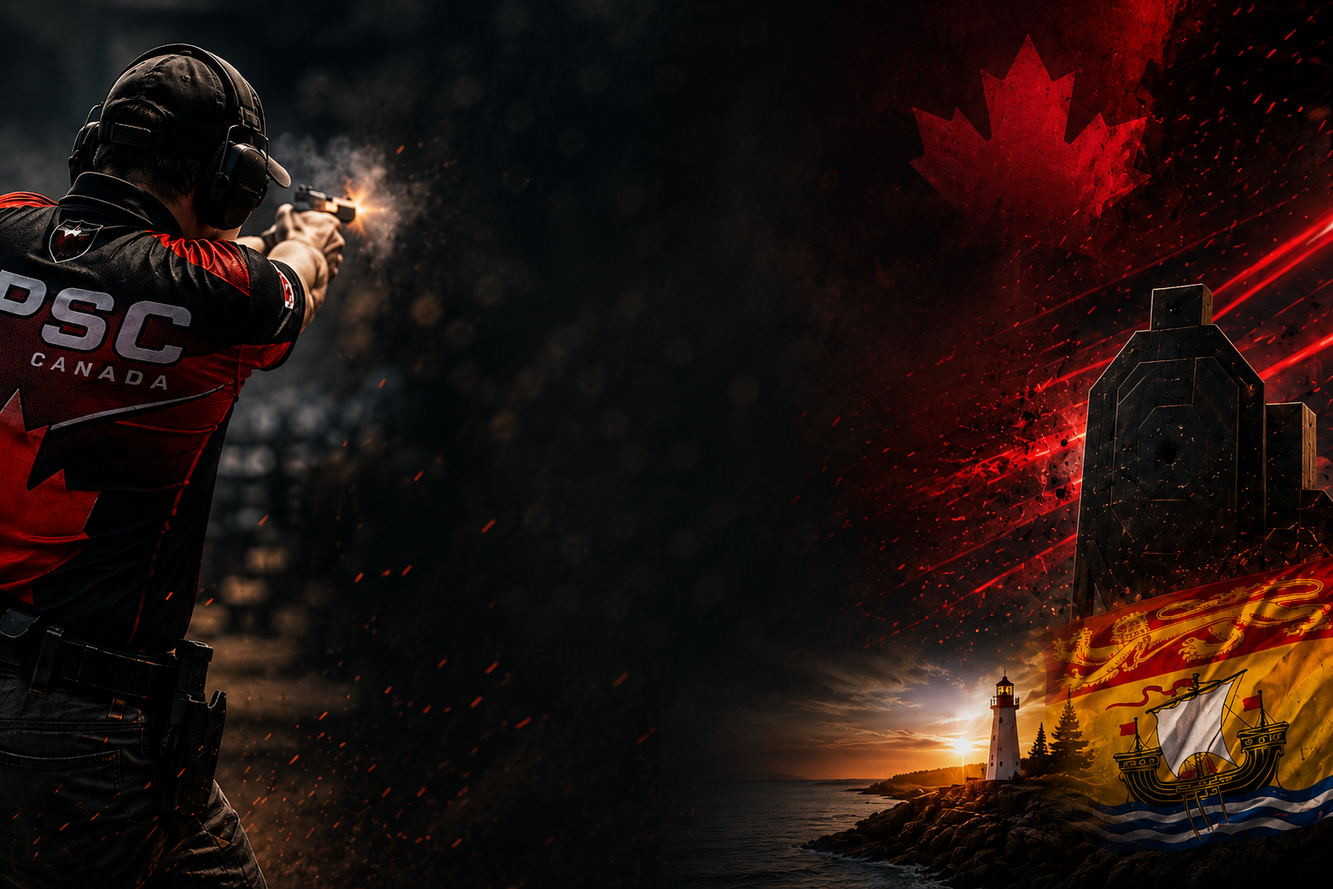
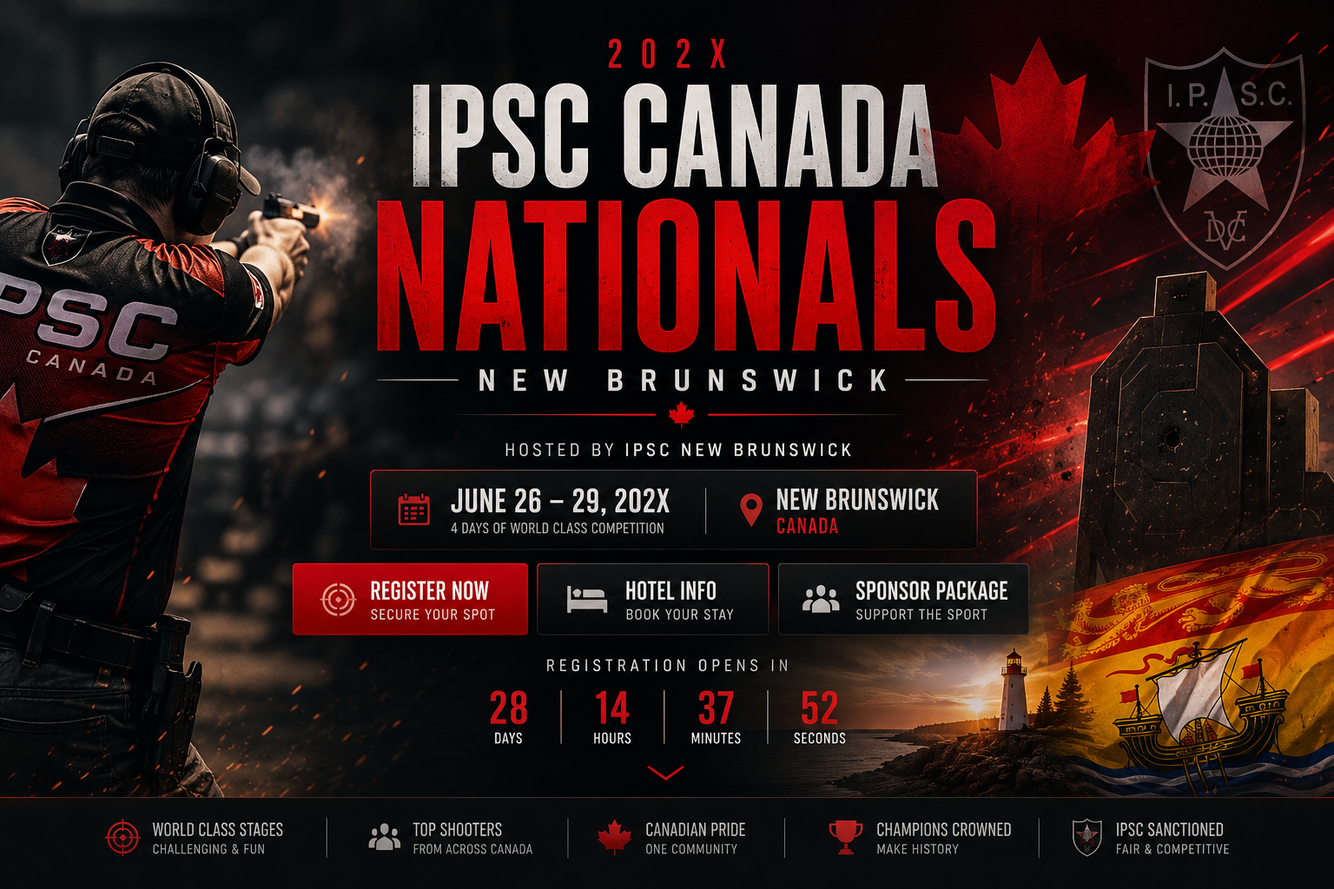
Add files via upload

diff --git a/index.html b/index.html
@@ -1,190 +1,157 @@
-<!doctype html>
+<!DOCTYPE html>
+
 <html lang="en">
 <head>
-  <meta charset="utf-8" />
-  <meta name="viewport" content="width=device-width, initial-scale=1" />
-  <title>IPSC Canada Nationals | New Brunswick</title>
-  <meta name="description" content="IPSC Canada Nationals hosted in New Brunswick. Match info, dates, travel, registration, sponsors, and updates." />
-  <link rel="preconnect" href="https://fonts.googleapis.com">
-  <link rel="preconnect" href="https://fonts.gstatic.com" crossorigin>
-  <link href="https://fonts.googleapis.com/css2?family=Barlow+Condensed:wght@500;600;700;800&family=Inter:wght@400;500;600;700;800&display=swap" rel="stylesheet">
-  <link rel="stylesheet" href="styles.css" />
-</head>
+<meta charset="utf-8"/>
+<meta content="width=device-width, initial-scale=1" name="viewport"/>
+<title>2027 IPSC Canada Nationals | Balmoral, New Brunswick</title>
+<meta content="2027 IPSC Canada Nationals, July 26–August 1, at Restigouche County Sports &amp; Gun Club, Balmoral Sud, New Brunswick." name="description"/>
+<link href="https://fonts.googleapis.com" rel="preconnect"/>
+<link crossorigin="" href="https://fonts.gstatic.com" rel="preconnect"/>
+<link href="https://fonts.googleapis.com/css2?family=Barlow+Condensed:wght@500;600;700;800&amp;family=Inter:wght@400;500;600;700;800&amp;display=swap" rel="stylesheet"/>
+<link href="styles.css" rel="stylesheet">
+</link></head>
 <body>
-  <header class="site-header" id="top">
-    <a class="brand" href="#top"><span class="brand-mark">NB</span><span>IPSC Nationals</span></a>
-    <button class="menu-btn" aria-label="Open navigation">Menu</button>
-    <nav class="nav">
-      <a href="#match">Match Info</a>
-      <a href="#dates">Dates</a>
-      <a href="#location">Location</a>
-      <a href="#accommodations">Hotels</a>
-      <a href="#sponsors">Sponsors</a>
-      <a class="nav-cta" href="#register">Register</a>
-    </nav>
-  </header>
+<header class="site-header" id="top">
+<a class="brand" href="#top"><span class="brand-mark">NB</span><span>IPSC Nationals</span></a>
+<button aria-label="Open navigation" class="menu-btn">Menu</button>
+<nav class="nav">
+<a href="#match">Match Info</a>
+<a href="#dates">Dates</a>
+<a href="#location">Location</a>
+<a href="#accommodations">Hotels</a>
+<a href="#sponsors">Sponsors</a>
+<a class="nav-cta" href="#register">Register</a>
+</nav>
+</header>
+<main>
+<section class="hero">
+<div aria-hidden="true" class="hero-bg"></div>
+<div aria-hidden="true" class="smoke smoke-a"></div>
+<div aria-hidden="true" class="smoke smoke-b"></div>
+<div class="hero-content reveal">
+<p class="eyebrow">Hosted by IPSC New Brunswick</p>
+<h1><span>IPSC Canada</span> Nationals</h1>
+<p class="hero-subtitle">Balmoral Sud, New Brunswick · July 26 – August 1, 2027</p>
+<div class="hero-card">
+<div>
+<span class="label">Dates</span>
+<strong>July 26 – August 1, 2027</strong>
+</div>
+<div>
+<span class="label">Match</span>
+<strong>18 Stages · Planned</strong>
+</div>
+<div>
+<span class="label">Registration</span>
+<strong>Details Coming Soon</strong>
+</div>
+</div>
+<div class="hero-actions">
+<a class="btn primary" href="#register">Registration Info</a>
+<a class="btn" href="#accommodations">Hotel Info</a>
+<a class="btn" href="#sponsors">Sponsor Package</a>
+</div>
 
-  <main>
-    <section class="hero">
-      <div class="hero-bg" aria-hidden="true"></div>
-      <div class="smoke smoke-a" aria-hidden="true"></div>
-      <div class="smoke smoke-b" aria-hidden="true"></div>
-      <div class="hero-content reveal">
-        <p class="eyebrow">Hosted by IPSC New Brunswick</p>
-        <h1><span>IPSC Canada</span> Nationals</h1>
-        <p class="hero-subtitle">New Brunswick, Canada</p>
-        <div class="hero-card">
-          <div>
-            <span class="label">Dates</span>
-            <strong>June 26–29, 202X</strong>
-          </div>
-          <div>
-            <span class="label">Match</span>
-            <strong>18 Stages + Chrono</strong>
-          </div>
-          <div>
-            <span class="label">Registration</span>
-            <strong>Opening Soon</strong>
-          </div>
-        </div>
-        <div class="hero-actions">
-          <a class="btn primary" href="#register">Register Now</a>
-          <a class="btn" href="#accommodations">Hotel Info</a>
-          <a class="btn" href="#sponsors">Sponsor Package</a>
-        </div>
-        <div class="countdown" data-target="2026-07-27T08:00:00-03:00">
-          <span>Registration opens in</span>
-          <div class="count-grid">
-            <div><strong id="days">--</strong><small>Days</small></div>
-            <div><strong id="hours">--</strong><small>Hours</small></div>
-            <div><strong id="minutes">--</strong><small>Minutes</small></div>
-            <div><strong id="seconds">--</strong><small>Seconds</small></div>
-          </div>
-        </div>
-      </div>
-    </section>
+</div>
+</section>
+<section class="strip">
+<div><strong>World Class Stages</strong><span>Challenging &amp; fair</span></div>
+<div><strong>Top Shooters</strong><span>From across Canada</span></div>
+<div><strong>Canadian Pride</strong><span>One community</span></div>
+<div><strong>Champions Crowned</strong><span>Make history</span></div>
+<div><strong>IPSC Sanctioned</strong><span>Safe &amp; competitive</span></div>
+</section>
+<section class="section grid-two" id="match">
+<div class="reveal">
+<p class="eyebrow">Match Info</p>
+<h2>Everything shooters need in one place.</h2>
+<p>Join competitors from across Canada in northern New Brunswick. Final match procedures, round count, check-in and officials information will be published as they are confirmed.</p>
+</div>
+<div class="panel reveal">
+<ul class="info-list">
+<li><span>Match Director</span><strong>To Be Announced</strong></li>
+<li><span>Stages</span><strong>18 Planned</strong></li>
+<li><span>Host</span><strong>IPSC New Brunswick</strong></li>
+<li><span>Location</span><strong>Restigouche County Sports &amp; Gun Club</strong></li>
+</ul>
+</div>
+</section>
+<section class="section dark" id="register">
+<div class="section-head reveal">
+<p class="eyebrow">Registration</p>
+<h2>Registration information</h2>
+<p>Registration is not open yet. The registration link, fees, eligibility and squad details will be posted here when confirmed.</p>
+</div>
+<div class="cards three">
+<article class="card reveal"><h3>Competitors</h3><p>Registration link, match fee, cancellation policy, and squad selection.</p></article>
+<article class="card reveal"><h3>Officials</h3><p>Prematch schedule, staff package, RO details, and lodging notes.</p></article>
+<article class="card reveal"><h3>International</h3><p>Invitation letter and contact instructions for international competitors.</p></article>
+</div>
+</section>
+<section class="section" id="dates">
+<div class="section-head reveal">
+<p class="eyebrow">Dates</p>
+<h2>Event schedule</h2>
+</div>
+<div class="timeline reveal"><div><time>Mon, Jul 26</time><strong>Event Week Begins</strong><span>Arrival, preparation and event activities — details pending</span></div><div><time>Tue–Sat, Jul 27–31</time><strong>Competition Week</strong><span>Daily shooting schedule and squad assignments to be confirmed</span></div><div><time>Sun, Aug 1</time><strong>Awards Banquet</strong><span>Planned awards banquet; venue and timing to be confirmed</span></div></div>
+</section>
+<section class="section grid-two dark" id="location">
+<div class="reveal">
+<p class="eyebrow">Location</p>
+<h2>Restigouche County Sports &amp; Gun Club</h2>
+<p>Restigouche County Sports &amp; Gun Club Association Inc. · 1237 Drapeau Road, Balmoral Sud, New Brunswick, Canada.</p>
+</div>
+<div class="map-card reveal"><a href="https://www.google.com/maps/search/?api=1&amp;query=1237+Drapeau+Road+Balmoral+Sud+NB+Canada" rel="noopener noreferrer" target="_blank">Open range directions in Google Maps ↗</a></div>
+</section>
+<section class="section" id="accommodations">
+<div class="section-head reveal">
+<p class="eyebrow">Travel</p>
+<h2>Hotels, camping &amp; banquet</h2>
+<p>Dalhousie and Campbellton are the main areas to consider. The hotels below are suggestions, not official partners; no room blocks or rates have been confirmed.</p>
+</div>
+<div class="cards three">
+<article class="card reveal"><h3>Dalhousie</h3><p>Days Inn by Wyndham Dalhousie. Also consider smaller local accommodations. Group rates have not been confirmed.</p></article>
+<article class="card reveal"><h3>Campbellton</h3><p>Quality Hotel &amp; Conference Centre. A potential larger group accommodation option. Booking details pending.</p></article>
+<article class="card reveal"><h3>More Options</h3><p>Additional Hotels &amp; Camping. Campbellton, Dalhousie, cottages and RV/camping options will be added as confirmed.</p></article>
+</div>
+<p>Awards banquet planned for Sunday, August 1, 2027; venue to be announced.</p></section>
+<section class="section dark" id="merch">
+<div class="section-head reveal">
+<p class="eyebrow">Competitor Gear</p>
+<h2>Official jersey &amp; match ammo</h2>
+</div>
+<div class="cards two">
+<article class="feature-card reveal"><h3>Official Nationals Jersey</h3><p>Details and ordering information will be announced closer to the event.</p><span class="pending-link">Order Jersey</span></article>
+<article class="feature-card reveal"><h3>Match Ammo</h3><p>Details and ordering information will be announced closer to the event.</p><span class="pending-link">Ammo Info</span></article>
+</div>
+</section>
+<section class="section" id="sponsors">
+<div class="section-head reveal">
+<p class="eyebrow">Sponsorship</p>
+<h2>Support the Nationals</h2>
+<p>Sponsorship opportunities and packages are being prepared. Confirmed partners will appear here.</p>
+<span class="pending-link">Download Sponsor Package</span>
+</div>
+<div class="sponsor-wall reveal">
+<h3>Title Sponsor</h3><div class="sponsor big">Sponsor Logo</div>
+<h3>Platinum Sponsors</h3><div class="sponsor-grid"><div>Sponsor</div><div>Sponsor</div><div>Sponsor</div></div>
+<h3>Gold Sponsors</h3><div class="sponsor-grid"><div>Sponsor</div><div>Sponsor</div><div>Sponsor</div><div>Sponsor</div></div>
+<h3>Stage Sponsors</h3><div class="sponsor-grid small"><div>Sponsor</div><div>Sponsor</div><div>Sponsor</div><div>Sponsor</div><div>Sponsor</div><div>Sponsor</div></div>
+</div>
+</section>
+<section class="section contact dark" id="contact">
+<div class="section-head reveal">
+<p class="eyebrow">Stay Updated</p>
+<h2>Watch for event updates</h2>
+</div>
 
-    <section class="strip">
-      <div><strong>World Class Stages</strong><span>Challenging & fair</span></div>
-      <div><strong>Top Shooters</strong><span>From across Canada</span></div>
-      <div><strong>Canadian Pride</strong><span>One community</span></div>
-      <div><strong>Champions Crowned</strong><span>Make history</span></div>
-      <div><strong>IPSC Sanctioned</strong><span>Safe & competitive</span></div>
-    </section>
-
-    <section class="section grid-two" id="match">
-      <div class="reveal">
-        <p class="eyebrow">Match Info</p>
-        <h2>Everything shooters need in one place.</h2>
-        <p>Use this section for the final sanctioned match details, match director, stage count, round count, chrono, equipment check, check-in, and competitor notices.</p>
-      </div>
-      <div class="panel reveal">
-        <ul class="info-list">
-          <li><span>Match Director</span><strong>Coming Soon</strong></li>
-          <li><span>Stages</span><strong>18 + Chrono</strong></li>
-          <li><span>Host</span><strong>IPSC New Brunswick</strong></li>
-          <li><span>Location</span><strong>New Brunswick, Canada</strong></li>
-        </ul>
-      </div>
-    </section>
-
-    <section class="section dark" id="register">
-      <div class="section-head reveal">
-        <p class="eyebrow">Registration</p>
-        <h2>Registration information</h2>
-        <p>Add PractiScore registration, eligibility notes, team info, international shooter instructions, and waitlist details here.</p>
-      </div>
-      <div class="cards three">
-        <article class="card reveal"><h3>Competitors</h3><p>Registration link, match fee, cancellation policy, and squad selection.</p></article>
-        <article class="card reveal"><h3>Officials</h3><p>Prematch schedule, staff package, RO details, and lodging notes.</p></article>
-        <article class="card reveal"><h3>International</h3><p>Invitation letter and contact instructions for international competitors.</p></article>
-      </div>
-    </section>
-
-    <section class="section" id="dates">
-      <div class="section-head reveal">
-        <p class="eyebrow">Dates</p>
-        <h2>Event schedule</h2>
-      </div>
-      <div class="timeline reveal">
-        <div><time>Day 1</time><strong>Prematch / Officials</strong><span>Staff, sponsors, and guests</span></div>
-        <div><time>Day 2</time><strong>Main Match</strong><span>Competitor waves / teams</span></div>
-        <div><time>Day 3</time><strong>Main Match</strong><span>Final squads and side events</span></div>
-        <div><time>Day 4</time><strong>Shoot-off / Awards</strong><span>Banquet and champions crowned</span></div>
-      </div>
-    </section>
-
-    <section class="section grid-two dark" id="location">
-      <div class="reveal">
-        <p class="eyebrow">Location</p>
-        <h2>New Brunswick, Canada</h2>
-        <p>Replace this with the final range address, closest airports, driving notes, tourism links, and range map.</p>
-      </div>
-      <div class="map-card reveal">
-        <div class="map-pin">⌖</div>
-        <strong>Range Location Coming Soon</strong>
-        <span>Airport, drive time, map, and local travel info</span>
-      </div>
-    </section>
-
-    <section class="section" id="accommodations">
-      <div class="section-head reveal">
-        <p class="eyebrow">Travel</p>
-        <h2>Hotels, camping & banquet</h2>
-        <p>Put official hotel blocks, booking deadlines, rates, parking notes, camping rules, and banquet details here.</p>
-      </div>
-      <div class="cards three">
-        <article class="card reveal"><h3>Official Hotel</h3><p>Rate, booking link, address, cancellation policy.</p><a href="#">Book Now</a></article>
-        <article class="card reveal"><h3>Camping</h3><p>Onsite availability, RV rules, nearby campgrounds.</p><a href="#">Camping Info</a></article>
-        <article class="card reveal"><h3>Banquet</h3><p>Venue, ticket info, awards night schedule.</p><a href="#">Banquet Details</a></article>
-      </div>
-    </section>
-
-    <section class="section dark" id="merch">
-      <div class="section-head reveal">
-        <p class="eyebrow">Competitor Gear</p>
-        <h2>Official jersey & match ammo</h2>
-      </div>
-      <div class="cards two">
-        <article class="feature-card reveal"><h3>Official Nationals Jersey</h3><p>Add jersey mockups, sizing charts, deadline, and order link.</p><a class="btn primary" href="#">Order Jersey</a></article>
-        <article class="feature-card reveal"><h3>Match Ammo</h3><p>Add vendor details, discount code, pickup rules, and order deadline.</p><a class="btn" href="#">Ammo Info</a></article>
-      </div>
-    </section>
-
-    <section class="section" id="sponsors">
-      <div class="section-head reveal">
-        <p class="eyebrow">Sponsorship</p>
-        <h2>Support the Nationals</h2>
-        <p>Use this section for sponsor tiers, package PDF, vendor tables, stage sponsors, prize table sponsors, and community partners.</p>
-        <a class="btn primary" href="#">Download Sponsor Package</a>
-      </div>
-      <div class="sponsor-wall reveal">
-        <h3>Title Sponsor</h3><div class="sponsor big">Sponsor Logo</div>
-        <h3>Platinum Sponsors</h3><div class="sponsor-grid"><div>Sponsor</div><div>Sponsor</div><div>Sponsor</div></div>
-        <h3>Gold Sponsors</h3><div class="sponsor-grid"><div>Sponsor</div><div>Sponsor</div><div>Sponsor</div><div>Sponsor</div></div>
-        <h3>Stage Sponsors</h3><div class="sponsor-grid small"><div>Sponsor</div><div>Sponsor</div><div>Sponsor</div><div>Sponsor</div><div>Sponsor</div><div>Sponsor</div></div>
-      </div>
-    </section>
-
-    <section class="section contact dark" id="contact">
-      <div class="section-head reveal">
-        <p class="eyebrow">Stay Updated</p>
-        <h2>Get Nationals updates by email</h2>
-      </div>
-      <form class="signup reveal" action="mailto:info@ipscnb.ca" method="post" enctype="text/plain">
-        <input name="firstName" placeholder="First name" />
-        <input name="lastName" placeholder="Last name" />
-        <input name="email" type="email" placeholder="Email" />
-        <button class="btn primary" type="submit">Send</button>
-      </form>
-    </section>
-  </main>
-
-  <footer class="footer">
-    <span>© <span id="year"></span> IPSC New Brunswick</span>
-    <a href="#top">Back to top ↑</a>
-  </footer>
-
-  <script src="script.js"></script>
+<p>Registration, hotel rates, the final schedule and official announcements will be posted on this site.</p></section>
+</main>
+<footer class="footer">
+<span>© <span id="year"></span> IPSC New Brunswick</span>
+<a href="#top">Back to top ↑</a>
+</footer>
+<script src="script.js"></script>
 </body>
 </html>

diff --git a/styles.css b/styles.css
@@ -1,1 +1,8 @@
 :root{--bg:#08090d;--panel:#12151c;--panel2:#181c25;--text:#f5f5f5;--muted:#b6bac5;--red:#d71920;--red2:#ff323a;--line:rgba(255,255,255,.14);--gold:#d9aa52}*{box-sizing:border-box}html{scroll-behavior:smooth}body{margin:0;background:var(--bg);color:var(--text);font-family:Inter,system-ui,sans-serif}a{color:inherit;text-decoration:none}.site-header{position:fixed;z-index:50;top:0;left:0;right:0;display:flex;align-items:center;justify-content:space-between;padding:18px 5vw;background:linear-gradient(180deg,rgba(5,6,10,.9),rgba(5,6,10,.2));backdrop-filter:blur(10px)}.brand{display:flex;gap:10px;align-items:center;text-transform:uppercase;font-family:'Barlow Condensed';font-weight:800;letter-spacing:.08em}.brand-mark{display:grid;place-items:center;width:40px;height:40px;border:1px solid var(--red);background:rgba(215,25,32,.2);border-radius:50%}.nav{display:flex;gap:22px;align-items:center;font-size:14px;font-weight:700;text-transform:uppercase;letter-spacing:.05em}.nav a{opacity:.86}.nav a:hover{opacity:1;color:#fff}.nav-cta{padding:10px 16px;border:1px solid var(--red);border-radius:999px;background:rgba(215,25,32,.2)}.menu-btn{display:none}.hero{position:relative;min-height:100vh;display:grid;place-items:center;overflow:hidden;padding:120px 5vw 70px}.hero-bg{position:absolute;inset:0;background:linear-gradient(90deg,rgba(0,0,0,.45),rgba(0,0,0,.15),rgba(0,0,0,.65)),url('assets/hero.png') center/cover no-repeat;filter:saturate(1.06)}.hero:after{content:"";position:absolute;inset:0;background:radial-gradient(circle at 50% 30%,transparent 0 25%,rgba(0,0,0,.35) 55%,rgba(0,0,0,.8) 100%)}.smoke{position:absolute;width:55vw;height:55vw;border-radius:50%;background:radial-gradient(circle,rgba(255,255,255,.09),transparent 65%);filter:blur(30px);animation:drift 12s ease-in-out infinite alternate}.smoke-a{left:-10vw;bottom:-20vw}.smoke-b{right:-15vw;top:-20vw;animation-delay:2s}.hero-content{position:relative;z-index:2;text-align:center;max-width:1050px}.eyebrow{text-transform:uppercase;letter-spacing:.22em;color:var(--red2);font-weight:800;font-size:14px}.hero h1{font-family:'Barlow Condensed';font-size:clamp(64px,12vw,165px);line-height:.82;margin:18px 0 0;text-transform:uppercase;letter-spacing:.02em;text-shadow:0 10px 40px rgba(0,0,0,.6)}.hero h1 span{display:block;color:#f0f0f0}.hero h1:not(span){color:var(--red)}.hero-subtitle{font-family:'Barlow Condensed';font-size:clamp(28px,4vw,54px);letter-spacing:.35em;text-transform:uppercase;margin:14px 0 24px}.hero-card{display:grid;grid-template-columns:repeat(3,1fr);max-width:820px;margin:0 auto 22px;border:1px solid rgba(255,255,255,.18);background:rgba(9,10,16,.72);backdrop-filter:blur(12px);border-radius:14px;overflow:hidden}.hero-card div{padding:20px;border-right:1px solid var(--line)}.hero-card div:last-child{border-right:0}.label{display:block;color:var(--muted);text-transform:uppercase;font-size:12px;letter-spacing:.14em;margin-bottom:7px}.hero-card strong{font-family:'Barlow Condensed';font-size:28px;text-transform:uppercase}.hero-actions{display:flex;justify-content:center;gap:14px;flex-wrap:wrap}.btn{display:inline-flex;align-items:center;justify-content:center;min-height:50px;padding:14px 24px;border:1px solid rgba(255,255,255,.18);border-radius:8px;background:rgba(20,23,30,.8);text-transform:uppercase;font-weight:900;letter-spacing:.05em;box-shadow:0 12px 30px rgba(0,0,0,.25)}.btn.primary{background:linear-gradient(135deg,var(--red),#8b0f14);border-color:#ff4a50}.btn:hover{transform:translateY(-1px);filter:brightness(1.1)}.countdown{margin-top:24px;text-transform:uppercase;letter-spacing:.16em;color:var(--muted);font-size:12px}.count-grid{display:flex;gap:22px;justify-content:center;margin-top:10px}.count-grid div{min-width:76px}.count-grid strong{font-family:'Barlow Condensed';display:block;font-size:46px;line-height:1;color:var(--red2)}.count-grid small{font-size:11px;color:#fff}.strip{display:grid;grid-template-columns:repeat(5,1fr);border-top:1px solid var(--line);border-bottom:1px solid var(--line);background:#0b0d12}.strip div{padding:26px 18px;text-align:center;border-right:1px solid var(--line)}.strip strong{display:block;text-transform:uppercase}.strip span{display:block;color:var(--muted);font-size:13px;margin-top:4px}.section{padding:95px 5vw}.dark{background:linear-gradient(180deg,#0b0d12,#10131a)}.grid-two{display:grid;grid-template-columns:1fr 1fr;gap:50px;align-items:center}.section h2{font-family:'Barlow Condensed';font-size:clamp(42px,6vw,78px);line-height:.95;margin:8px 0 18px;text-transform:uppercase}.section p{color:var(--muted);font-size:18px;line-height:1.7}.section-head{max-width:850px;margin:0 auto 42px;text-align:center}.panel,.card,.feature-card,.map-card{background:linear-gradient(180deg,var(--panel2),var(--panel));border:1px solid var(--line);border-radius:18px;box-shadow:0 25px 50px rgba(0,0,0,.28)}.panel{padding:28px}.info-list{list-style:none;margin:0;padding:0}.info-list li{display:flex;justify-content:space-between;gap:18px;padding:18px 0;border-bottom:1px solid var(--line)}.info-list li:last-child{border:0}.info-list span{color:var(--muted)}.cards{display:grid;gap:24px}.cards.three{grid-template-columns:repeat(3,1fr)}.cards.two{grid-template-columns:repeat(2,1fr)}.card,.feature-card{padding:28px}.card h3,.feature-card h3,.sponsor-wall h3{font-family:'Barlow Condensed';font-size:32px;text-transform:uppercase;margin:0 0 10px}.card a{color:var(--red2);font-weight:800;text-transform:uppercase}.feature-card{min-height:260px;display:flex;flex-direction:column;align-items:flex-start;justify-content:flex-end}.timeline{display:grid;grid-template-columns:repeat(4,1fr);gap:0;border:1px solid var(--line);border-radius:18px;overflow:hidden;background:#11141b}.timeline div{padding:28px;border-right:1px solid var(--line)}.timeline div:last-child{border:0}.timeline time{color:var(--red2);font-weight:900;text-transform:uppercase}.timeline strong{display:block;font-family:'Barlow Condensed';font-size:34px;text-transform:uppercase;margin:10px 0}.timeline span{color:var(--muted)}.map-card{min-height:310px;display:grid;place-items:center;text-align:center;padding:30px;background:linear-gradient(135deg,rgba(215,25,32,.28),rgba(15,17,22,.92)),radial-gradient(circle at center,rgba(255,255,255,.09),transparent 60%)}.map-card strong{font-family:'Barlow Condensed';font-size:42px;text-transform:uppercase}.map-card span{color:var(--muted)}.map-pin{font-size:70px;color:var(--red2)}.sponsor-wall{max-width:1000px;margin:auto}.sponsor,.sponsor-grid div{display:grid;place-items:center;border:1px solid var(--line);background:#fff;color:#111;border-radius:14px;font-weight:900;text-transform:uppercase;min-height:110px}.sponsor.big{min-height:160px;font-size:28px}.sponsor-grid{display:grid;grid-template-columns:repeat(3,1fr);gap:18px;margin:14px 0 34px}.sponsor-grid.small{grid-template-columns:repeat(6,1fr)}.sponsor-grid.small div{min-height:80px;font-size:12px}.signup{display:grid;grid-template-columns:1fr 1fr 1.4fr auto;gap:14px;max-width:1000px;margin:auto}.signup input{width:100%;border:1px solid var(--line);border-radius:8px;background:#090b10;color:#fff;padding:16px;font-size:16px}.footer{display:flex;justify-content:space-between;padding:28px 5vw;color:var(--muted);border-top:1px solid var(--line)}.reveal{opacity:0;transform:translateY(22px);transition:opacity .8s ease,transform .8s ease}.reveal.visible{opacity:1;transform:none}@keyframes drift{from{transform:translate(0,0) scale(1)}to{transform:translate(8vw,-4vw) scale(1.15)}}@media (max-width:900px){.nav{display:none}.menu-btn{display:block;background:transparent;border:1px solid var(--line);color:#fff;border-radius:8px;padding:10px 14px}.nav.open{display:flex;position:absolute;top:72px;left:5vw;right:5vw;flex-direction:column;background:#08090d;border:1px solid var(--line);padding:20px;border-radius:14px}.hero-card,.grid-two,.cards.three,.cards.two,.timeline,.strip,.signup{grid-template-columns:1fr}.hero-card div,.strip div,.timeline div{border-right:0;border-bottom:1px solid var(--line)}.sponsor-grid,.sponsor-grid.small{grid-template-columns:repeat(2,1fr)}.hero-subtitle{letter-spacing:.14em}.section{padding:70px 5vw}}
+
+/* 2027 Nationals refresh */
+.hero-bg { background-image: linear-gradient(90deg, rgba(0,0,0,.28), rgba(0,0,0,.05) 40%, rgba(0,0,0,.22)), url('assets/hero-clean.png') !important; }
+.hero-content { position: relative; z-index: 2; }
+.hero { min-height: 760px; }
+.pending-link { display: inline-block; padding: 10px 0; color: #aaa; font-weight: 700; }
+.map-card a { color: #fff; font-weight: 800; text-decoration: underline; text-underline-offset: 5px; }

diff --git a/README.md b/README.md
@@ -1,19 +1,13 @@
-# IPSC Canada Nationals New Brunswick Website
+# 2027 IPSC Canada Nationals — Website
 
-Static one-page website starter.
+Updated for July 26–August 1, 2027 at Restigouche County Sports & Gun Club Association Inc.,
+1237 Drapeau Road, Balmoral Sud, New Brunswick.
 
-## Edit these first
-- `index.html`: change dates, location, PractiScore links, hotels, sponsors, contact email.
-- `assets/hero.png`: replace with final approved hero image if needed.
-- `script.js`: update countdown target date.
+## Upload to GitHub Pages
+Upload the CONTENTS of this folder (index.html, styles.css, script.js, assets/)
+to the root of the `IPSCNB/ipsc-canada-nationals-2027` repository, replacing existing files.
+Commit the changes; GitHub Pages will redeploy automatically.
 
-## Publish on GitHub Pages
-1. Create a new GitHub repo.
-2. Upload these files.
-3. Go to Settings → Pages.
-4. Source: Deploy from branch.
-5. Branch: main, folder: /root.
-6. Save.
-
-## Custom domain
-Add your domain under Settings → Pages → Custom domain.
+The new background is `assets/hero-clean.png` and contains no headline text.
+Hotels are suggestions, not confirmed booking partners. Registration and banquet
+details are intentionally marked pending. No shoot-offs are advertised.
